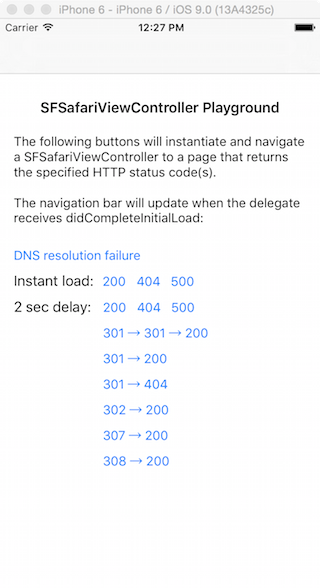
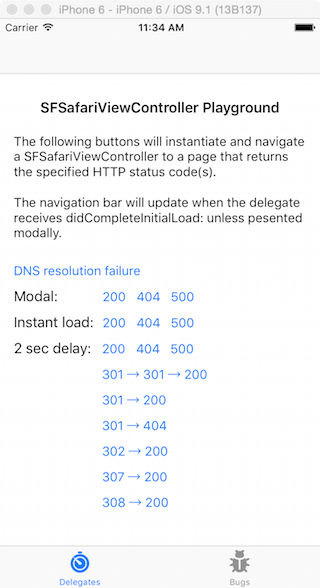
Update README

diff --git a/README.md b/README.md
@@ -1,24 +1,40 @@
 # SFSafariViewControllerPlayground
 
-Simple iOS 9 app to test delegate callbacks in the new [`SFSafariViewController`](https://developer.apple.com/videos/wwdc/2015/?id=504).
+Simple iOS 9 app to test delegate callbacks and reproduce bugs in the new
+[`SFSafariViewController`](https://developer.apple.com/videos/wwdc/2015/?id=504).
+
+![Delegates](/screenshot-1.png?raw=true)
+![Bugs](/screenshot-1.png?raw=true)
+![Synthetic Response](/screenshot-3.png?raw=true)
 
 ## How it works
+
+### Delegates
 
 When you tap a button corresponding to an HTTP status, the app instantiates a
 `SFSafariViewController`and pushes it onto the top-level
 `UINavigationController`.
 
 The navigation bar will indicate when the `SFSafariViewControllerDelegate`
-receives the `didCompleteInitialLoad:` message, unless presented modally.
+receives the `didCompleteInitialLoad:` message.
 
 The synthetic response pages utilize HTTP streaming to delay the
 `document.DOMContentLoaded` event, and include a slow hidden image to delay the
 `window.load` event. Indicators exist upon completion of both events.
 
-![Landing page](/screenshot-1.png?raw=true)
-![Loaded page](/screenshot-2.png?raw=true)
+### Bugs
+
+When you tap a button corresponding to a bug, the app instantiates a
+`SFSafariViewController` and presents it modally. The bug should reproduce
+under the conditions specified in the Radars below:
+
+* [Animated GIF OOM Crash](https://openradar.appspot.com/)
+* [Large Resource OOM Crash](https://openradar.appspot.com/)
+* [ContentInset + Keyboard Usability Bug](https://openradar.appspot.com/)
+* [ContentInset + Landscape Usability Bug](https://openradar.appspot.com/)
 
 ## Dependencies
 
 Uses the [synthetic response generator](https://http-playground.herokuapp.com/synthetic)
-included in [`http-playground`](https://github.com/jamesreggio/http-playground).
+and [common crashing bugs](https://http-playground.herokuapp.com/crashers)
+tools included in [`http-playground`](https://github.com/jamesreggio/http-playground).
